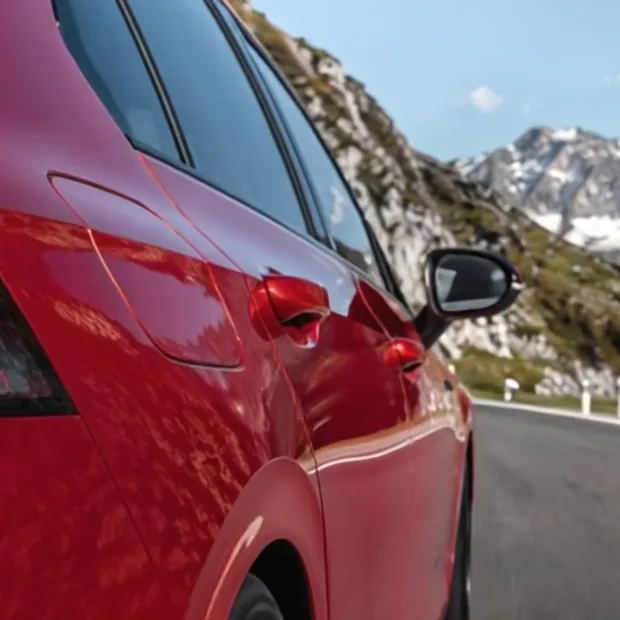
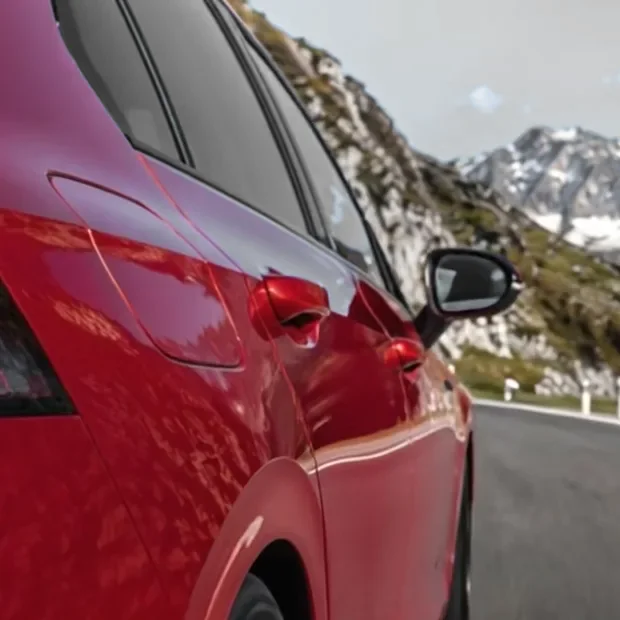
Se va el azul del material: mapa neutro y fotos sin tinte frio
El fondo de la pagina ya era negro en todos lados, pero seguian
viendose pantallas azules. No estaban en la CSS —barrido completo del
DOM: cero fondos, cero degradados azulados— sino en el MATERIAL.

Medido, pixeles azul-oscuro por archivo:
  collage/ciudad.webp            83%
  collage/drive-poster.jpg       55%
  social/ig-4.webp               54%
  ruta/ruta-desktop-poster.jpg   27%
  mapa: calles en #363C48, #4A515D, #5A6270...

EL MAPA. Los grises eran azul-grises, copiados del estilo nocturno de
Google. Ahora son neutros, y no elegidos a ojo: cada uno tiene
exactamente la misma luminancia que el azul-gris que reemplazo,
calculada en sRGB lineal, asi que la jerarquia —calle fina y oscura,
avenida gruesa y clara— quedo intacta. Lo unico que se fue es el tinte.
La calle resaltada pasa al Blanco Puro de la paleta.

LAS FOTOS. Dos intentos fallaron antes de dar con el bueno:

1. Balance de blancos por ganancia de canal. Se rompe en las fotos con
   un objeto calido grande: ahi el canal mas bajo es el azul, asi que
   BAJABA el rojo. La ig-2 pasaba de 16% a 30% de azul, o sea peor.

2. Desaturar lo oscuro. Suena bien y la medicion lo desmintio: el 71%
   del contenido calido de la foto de la ciudad vive por debajo de luma
   0.35, exactamente donde vive el azul. Apagaba las ventanas
   encendidas junto con el cielo.

Lo que funciona es discriminar por TONO, y medido RELATIVO al brillo
del pixel: un cielo nocturno es r=8 b=20, una diferencia absoluta de
[…]

Changed region(s): [[0.0919, 0.0, 0.5823, 0.3984], [0.4597, 0.0, 1.0, 0.2452], [0.4597, 0.429, 0.4903, 0.4597]]

diff --git a/tools/mapa-barracas.py b/tools/mapa-barracas.py
@@ -48,13 +48,23 @@ def a_svg(lat, lon):
 
 # Grosor y capa segun el tipo de calle. El orden importa: primero las
 # chicas, despues las grandes, asi las avenidas quedan por encima.
+#
+# LOS GRISES SON NEUTROS Y ESO ES A PROPOSITO. Antes eran azul-grises
+# (#31363F, #4A515D, #5A6270...), copiados del estilo nocturno de Google.
+# Sobre una pagina que es negra de punta a punta ese azulado se leia como
+# una mancha fria, y era lo unico de color en toda la pantalla.
+#
+# Los neutros de ahora NO se eligieron a ojo: cada uno tiene exactamente
+# la misma luminancia que el azul-gris que reemplazo, calculada en sRGB
+# lineal. Por eso la jerarquia —calle fina y oscura, avenida gruesa y
+# clara— quedo intacta: lo unico que se fue es el tinte.
 CAPAS = [
-    (("service", "footway", "path", "pedestrian", "steps", "track"), 0.9, "#31363F"),
-    (("residential", "unclassified", "living_street", "road"),       1.8, "#4A515D"),
-    (("tertiary", "tertiary_link"),                                  2.6, "#5A6270"),
-    (("secondary", "secondary_link"),                                3.4, "#69717F"),
+    (("service", "footway", "path", "pedestrian", "steps", "track"), 0.9, "#363636"),
+    (("residential", "unclassified", "living_street", "road"),       1.8, "#515151"),
+    (("tertiary", "tertiary_link"),                                  2.6, "#616161"),
+    (("secondary", "secondary_link"),                                3.4, "#707070"),
     (("primary", "primary_link", "trunk", "trunk_link",
-      "motorway", "motorway_link"),                                  4.6, "#7C8492"),
+      "motorway", "motorway_link"),                                  4.6, "#838383"),
 ]
 
 # Como los escribe Google en el mapa, que es con lo que se compara.
@@ -167,14 +177,14 @@ def main():
         out.append('</g>')
 
     for pts in vias_tren:
-        out.append(f'<path d="{d_de(pts)}" stroke="#363C48" stroke-width="1.6" '
+        out.append(f'<path d="{d_de(pts)}" stroke="#3C3C3C" stroke-width="1.6" '
                    f'stroke-dasharray="6 5"/>')
 
     # EL PASAJE, ENCIMA DE TODO Y EN CLARO. Es de lo que habla la
     # seccion: el resto del barrio esta para dar contexto, no para
     # competir.
     if lanin:
-        out.append('<g stroke="#F2F4F8" stroke-width="4.6" stroke-linecap="round">')
+        out.append('<g stroke="#FFFFFF" stroke-width="4.6" stroke-linecap="round">')
         out += [f'<path d="{d_de(p)}"/>' for p in lanin]
         out.append('</g>')
 
@@ -184,7 +194,7 @@ def main():
     # lee como una etiqueta pegada encima; girado se lee como un mapa.
     out.append(f'<g font-family="system-ui,-apple-system,Helvetica,Arial,sans-serif" '
                f'font-size="{TXT}" letter-spacing="{TXT*0.06:.2f}" '
-               f'fill="#8A92A0" stroke="#000000" stroke-width="{TXT*0.30:.2f}" '
+               f'fill="#919191" stroke="#000000" stroke-width="{TXT*0.30:.2f}" '
                f'paint-order="stroke" stroke-linejoin="round" '
                f'text-anchor="middle">')
 
